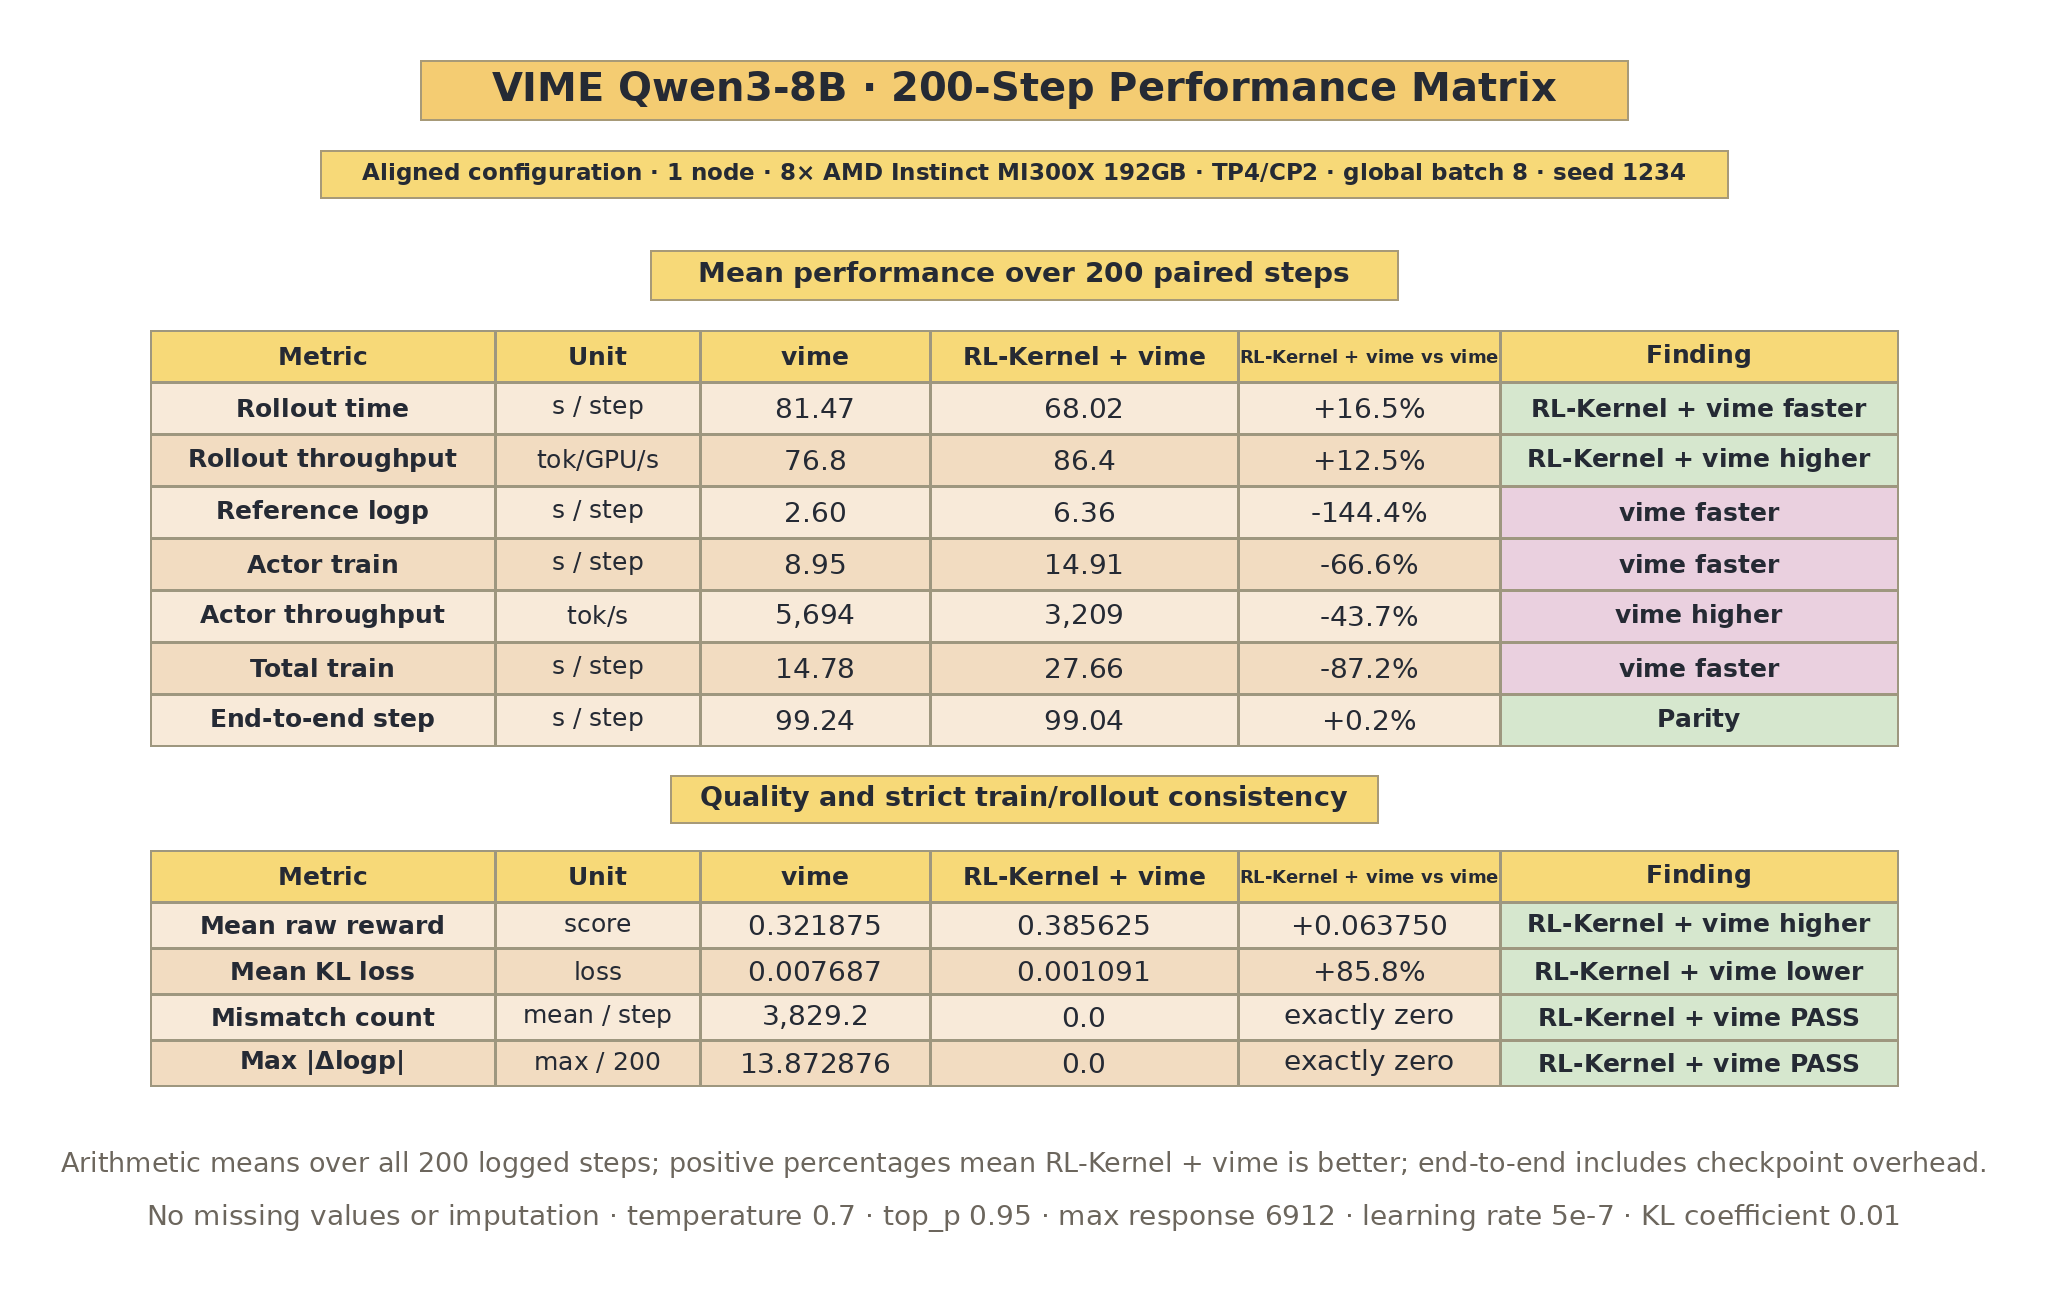
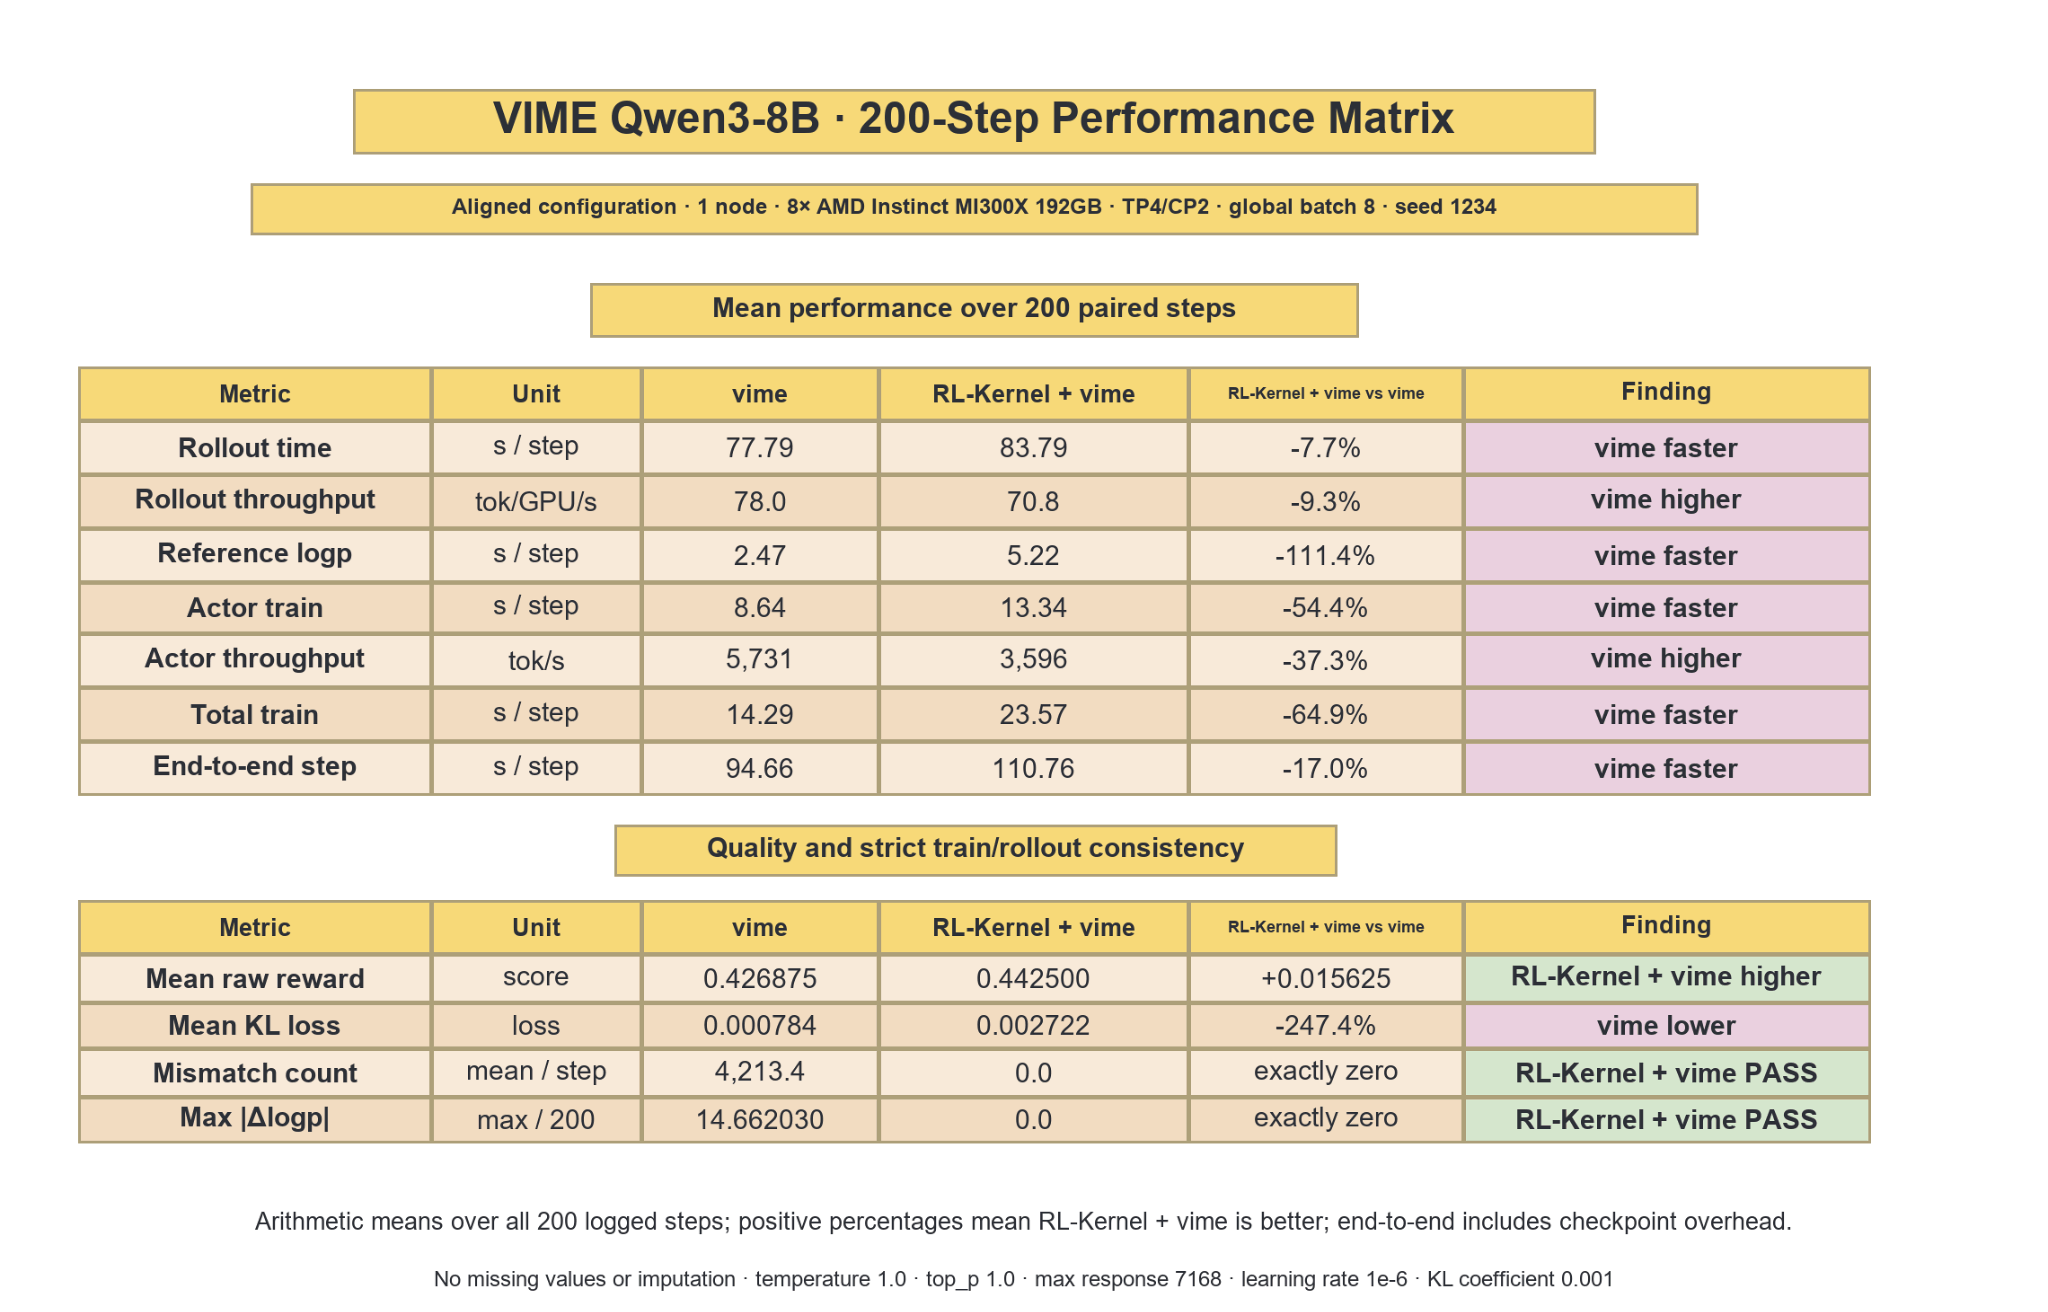
Update ROCm results from latest blog draft

diff --git a/_posts/2026-09-14-rl-kernel-v0-1-0-train-rollout-bitwise-consistency.md b/_posts/2026-09-14-rl-kernel-v0-1-0-train-rollout-bitwise-consistency.md
@@ -26,15 +26,13 @@ In an end-to-end Qwen3-8B GRPO experiment on AMD Instinct MI300X, the strict vim
 
 This post focuses on three questions: why mismatch occurs, which parts are handled by vime and RL-Kernel, and how we verify bitwise consistency while preserving native ROCm execution paths.
 
-## Why vime Needs Stricter Train–Rollout Alignment
+## Why RL Training Requires Train–Rollout Numerical Consistency
 
-vime uses a disaggregated training-and-rollout architecture:
+Training and rollout typically use different execution engines and operators. Even with the same model, weights, and inputs, different kernels, parallelization strategies, and reduction orders can still produce different logprobs.
 
-- **Training (Megatron):** Executes forward, backward, and optimizer steps, then synchronizes updated weights to the rollout side.
-- **Rollout (vLLM + Router):** Executes sampling, prefill, decode, and KV-cache management, producing training samples and their rollout logprobs.
-- **Data Buffer:** Connects training and rollout while managing prompts, responses, rewards, and custom rollout logic.
+This is a long-standing problem in RL systems because it affects importance ratios, KL divergence, and clipping. Systematic end-to-end investigation of this issue on ROCm remains comparatively limited.
 
-This architecture allows training and generation to use the execution engines best suited to their workloads. However, the two engines optimize for different goals and therefore form different numerical paths.
+Building on vime × RL-Kernel, we align the Attention, FFN, logprob, and communication paths on AMD Instinct MI300X to achieve bitwise-consistent training and rollout.
 
 The rollout engine generates token *a<sub>t</sub>* from prefix *h<sub>t</sub>* and records:
 
@@ -108,6 +106,8 @@ Their respective roles are:
 
 Without vime's timeline synchronization, even deterministic kernels may compare different weight versions or different tokens. Without RL-Kernel's numerical alignment, two engines may interpret the same model through different floating-point paths even when the weight version is identical.
 
+On ROCm, these numerical rules must ultimately be implemented in the operators, compiler, and communication stack. To complete that work, we added deterministic GEMM using AMD MFMA, aligned vocabulary reduction and HIP IPC communication, fixed the execution schedule for AITER/CK Attention, addressed last-bit differences introduced by math functions and compiler fusion, and corrected state issues in paged-KV layout and HIP Graph replay. With these adaptations, the weights and tokens aligned by vime follow a consistent numerical path through training and rollout. On 8× AMD Instinct MI300X with Qwen3-8B, logprobs remained bitwise identical for 200 consecutive training and rollout steps.
+
 ## Confirming That Both Sides Compute the Same Object
 
 Before comparing floating-point results, we verify that the following match:
@@ -121,7 +121,7 @@ Before comparing floating-point results, we verify that the following match:
 
 If any condition differs, the sample should be marked comparable = false; the final difference cannot be attributed directly to a kernel.
 
-## Why Numerical Divergence Must Be Addressed End to End
+## Why Numerical Divergence Across the Transformer Must Be Addressed Together
 
 RMSNorm, GEMM, Attention, linear logp, and distributed collectives may appear to be separate modules, but all of them contain reductions:
 
@@ -206,12 +206,15 @@ Figure 3 compares the performance of native vime and vime + RL-Kernel across the
 
 <p style="text-align:center;opacity:0.7;font-size:0.95em;"><em>Figure 3: Performance matrix for native vime and the strict vime + RL-Kernel path.</em></p>
 
-## What This Integration Adds to vime
+## What vime × RL-Kernel Achieves on ROCm
 
-- **Bitwise correctness mode:** Directly verifies whether independently computed logprobs are exactly equal.
-- **Failure localization:** Uses ablation experiments to identify the specific boundary where divergence begins.
-- **Backend evidence:** Records kernels, Graph execution, paged KV, collectives, and fallback state to verify the actual runtime path.
-- **Stability:** Supports stable, exactly reproducible vime training runs under demanding workloads.
+- **Bitwise correctness:** Training and rollout logprobs match exactly on ROCm. Across all 200 steps, mismatch_count remains zero and the maximum logprob difference is also zero.
+- **Controlled end-to-end overhead:** The mean end-to-end step time is 110.76 seconds for RL-Kernel + vime, compared with 94.66 seconds for native vime—an overhead of approximately 17% for the strict consistency path.
+- **Stable consistency guarantees:** Zero mismatch is maintained throughout the 200-step end-to-end training run, making results easier to verify and reproduce.
+- **Complete ROCm execution evidence:** The validation records the kernels, HIP Graph execution, paged KV, collectives, and fallback paths actually used at runtime.
+- **Fast failure localization:** Operator ablations identify the specific operator or system boundary where train–rollout divergence begins.
+
+On 8× AMD Instinct MI300X, RL-Kernel + vime maintained zero mismatch across all 200 steps with approximately 17% end-to-end overhead. The result moves strict train–rollout consistency beyond correctness validation toward a ROCm implementation with quantifiable performance cost, traceable execution paths, and reproducible experimental results—providing a foundation for production deployment and further optimization.
 
 ## Current Scope and Next Steps
 
